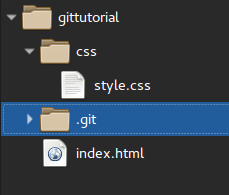
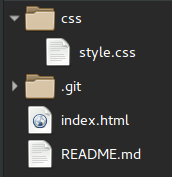
work in progress

diff --git a/02.posts.draft/git.part02-use.git.html b/02.posts.draft/git.part02-use.git.html
@@ -18,15 +18,12 @@
 <body>
 
 <div class="container-fluid">
-  <h2>Creating a Repository</h2>
-  <p>To create a new git repository you only need one command.</p>
-  <pre>$ git init<br>outputs: Initialized empty Git repository in /home/user01/workspace/.git/</pre>
   <h2>Creating a Sample Project</h2>
   <p>It doesn't matter to Git how you create your project files. You can create them in a file manager, code editor or via the command line (which I'll show you below). All that matters is that all project files are located under one master folder commonly referred to as 'root'. In our case, the root directory will be named 'gittutorial'</p>
   <p>In Terminal, make sure the current directory is ~/workspace/</p>
   <pre>$ cd ~/workspace</pre>
   <p>... and then execute the following commands. Don't worry what they mean for now, they will be explained below.</p>
-  <pre>$ mkdir gittutorial<br>$ touch index.html<br>$ mkdir css<br>$ cd css<br>$ touch style.css</pre>
+  <pre>$ mkdir gittutorial<br>$ cd gittutorial<br>$ touch index.html README.md<br>$ mkdir css<br>$ cd css<br>$ touch style.css</pre>
   <p>Your project structure should now look like this:</p>
   <img src="../images/using-git-github/001.01.init.file.structure.png" alt="initial file structure" />
   <p>Let's put some content in the files.</p>
@@ -46,6 +43,14 @@
       <pre class="pre-file-body">body {<br>  background-color: lightgray<br>}</pre>
     </div>
   </div>
+  <div class="file-box">
+    <div class="file-name">
+      README.md
+    </div>
+    <div class="file-body">
+      <pre class="pre-file-body">#Git Tutorial ReadMe</pre>
+    </div>
+  </div>
   <p>Open index.html in a browser</p>
   <img src="../images/using-git-github/002.01.git-tutorial-mozilla-firefox.png" alt="initial file structure" />
 
@@ -60,7 +65,9 @@
   <h3><code>$ git init</code> - Create a New Git Repository</h3>
   <p><code>$ git init</code> creates a new empty git repository. It needs to be executed from your project root, so let's get there now.</p>
   <pre>$ cd ~/workspace/gittutorial</pre>
-  <p>Now execute <code>$ git init</code> and then look in your file manager to see the '.git' folder that contains the reposigory. This is a hidden folder. If your file manager is not showing hidden files &amp; folders, you will need to change a setting.</p>
+  <p>Now execute ...</p>
+  <pre>$ git init</pre>
+  <p>... and then look in your file manager to see the '.git' folder that contains the reposigory. This is a hidden folder. If your file manager is not showing hidden files &amp; folders, you will need to change a setting.</p>
   <img src="../images/using-git-github/003.01.git-folder-in-files.png" alt="showing .git folder in file manager" />
 
   <h3><code>$ git status</code> - Show the Status of the Repository</h3>
@@ -90,12 +97,13 @@
       style.css
     </div>
     <div class="file-body">
-      <pre class="pre-file-body">body {<br>  background-color: <b>burlywood</b><br>}</pre>
+      <pre class="pre-file-body">body {<br>  background-color: <b>burlywood;</b><br>}</pre>
     </div>
   </div>
-  <p>Using <code>$ git status</code> now shows two modified files.</p>
+  <p>Using <code>$ git status</code> now shows two <i>modified</i> files.</p>
   <pre>$ git status</pre>
-  <p>Next 'add' the changes and note that 'status' shows the files as 'modified' instead of 'new file'.</p>
+  <p>Next 'add' the changes and note that 'status' shows the files as <i>'modified'</i> instead of <i>'new file'</i>.</p>
+  <pre>$ git add --all<br>$ git status</pre>
   <p>Now commit the changes.</p>
   <pre>$ git commit -m "changed body color and added a paragraph"<br>$ git status</pre>
   <p>Status once again shows 'working directory is clean' which means all files and changes are in the repository.</p>
@@ -105,13 +113,17 @@
   <p>The next part of this tutorial will show you how to push your Git repositiry to GitHub.</p>
   <p class="ke-callout ke-callout-goal">Fantastic! You are now using Git to manage your project.</p>
 
-
-
-  <!-- jQuery (necessary for Bootstrap's JavaScript plugins) -->
-  <script src="https://ajax.googleapis.com/ajax/libs/jquery/1.11.3/jquery.min.js"></script>
-  <!-- Include all compiled plugins (below), or include individual files as needed -->
-  <script src="bootstrap/js/bootstrap.min.js"></script>
-
-
 </div> <!-- containter-fluid -->
+<!-- jQuery (necessary for Bootstrap's JavaScript plugins) -->
+<script src="https://ajax.googleapis.com/ajax/libs/jquery/1.11.3/jquery.min.js"></script>
+<!-- Include all compiled plugins (below), or include individual files as needed -->
+<script src="../bootstrap/js/bootstrap.min.js"></script>
+<script>
+  // alert("Script");
+  $('img').click(function() {
+    var msg = $(this).attr("src");
+    alert(msg);
+  });
+</script>
+
 </body>

diff --git a/02.posts.draft/git.part03-use.github.html b/02.posts.draft/git.part03-use.github.html
@@ -22,11 +22,28 @@
 
 <h2>Create a GitHub Account</h2>
 <p>Go to <a href="https://github.com">GitHub</a> (github.com) and create an account. Give your user name some thought. GitHub is a very public place which people use to help develop their identity as a developer. You will store your code here and may in the future share it with other developers or with a potential employer to show your abilities. Once you account is setup and verified, follow the steps below to create your first repository.</p>
-<h2>Create a Repository</h2>
+<h2>Create a GitHub Repository</h2>
 <p>In the upper right-hand corner of the GitHub page, click on the '+' sign and select <button class="btn btn-default btn-xs">New repository</button>.</p>
 <img src="../images/using-git-github/004.01.new-repository.png" alt="new github repository" />
+<p>Fill out the repository details as show below and then click <button class="btn btn-default btn-xs">Create repository</button>.</p>
+<img src="../images/using-git-github/005.01.new-repository-github.png" alt="new repository github" />
+<h2>Add Your Local Repository to the GitHub Repository</h2>
+<p>The next page shows three ways of populating the new repository. Since you already have an existing repository you want to use the second option <i>''…or push an existing repository from the command line'</i>. Copy the two lines from this option, one at at time, to the command line and execute. First:</p>
+<pre>$ git remote add origin https://github.com/demoacct-klequis/gittutorial.git</pre>
+<p>The next command will prompt you first for your GitHub user name and then for your GitHub password.</p>
+<pre>$ git push -u origin master</pre>
+<p><code>$ git push</code> does what it implies. It pushes your code to GitHub.</p>
+<p>Go back to GitHub and refresh the page. Your repository will now look like this:</p>
+<img src="../images/using-git-github/007.01.files-in-github-repository.png" alt="new github repository with files" />
+<h2>Updating GitHub as you Work</h2>
+<p>Pushing to GitHub provides many benefits. Two big ones are backup and sharing.</p>
+<p>Your work should always be backed-up regardless of how little time you spent on it. It is sometimes said that there are two kinds of people, those who have had a hard drive fail and those who will. There is also user error. Many years ago, before the days of DropBox and Google Drive, I had a hard drive fail. It was no big deal as I had a second hard drive in with all the data backed-up. Unfortunately, when trying to fix the primary drive I mistakenly reformatted the wrong hard drive and lost most of the pictures from the first two years of my marriage. It is still painful to think about. Mistakes do happen. Push you code to GitHubat least once a day.</p>
+<p>As you are learning to code you may or may not have a reason to share you code with or co-develope a project with another developer. However, once you are a developer it is more than likely you will do both of these things. Get into the habit of pushing your code now.</p>
+<p>You need to add before you push. The process as we have developed it so far is as follows:</p>
+<pre><ol><li>$ git add --all</li><li>$ git commit -m "describe the changes in the message"</li><li>$ git push origin master</li></ol></pre>
+<p>There are other ways to add, commit and push which you will learn later in this tutorial.</p>
 
-
+<br><br><br><br><br><br><br><br><br><br><br><br><br><br><br>
 
 
 </div> <!-- containter-fluid -->
@@ -34,5 +51,12 @@
 <!-- jQuery (necessary for Bootstrap's JavaScript plugins) -->
 <script src="https://ajax.googleapis.com/ajax/libs/jquery/1.11.3/jquery.min.js"></script>
 <!-- Include all compiled plugins (below), or include individual files as needed -->
-<script src="bootstrap/js/bootstrap.min.js"></script>
+<script src="../bootstrap/js/bootstrap.min.js"></script>
+<script>
+  // alert("Script");
+  $('img').click(function() {
+    var msg = $(this).attr("src");
+    alert(msg);
+  });
+</script>
 </body>
